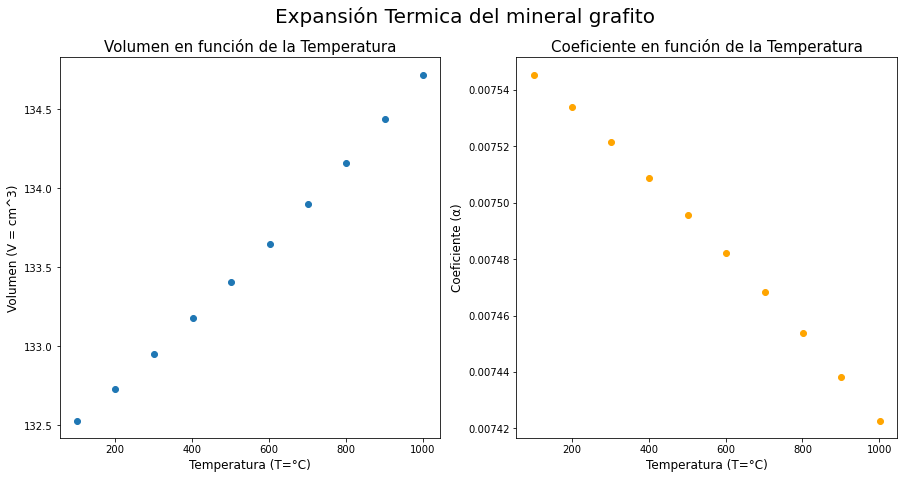
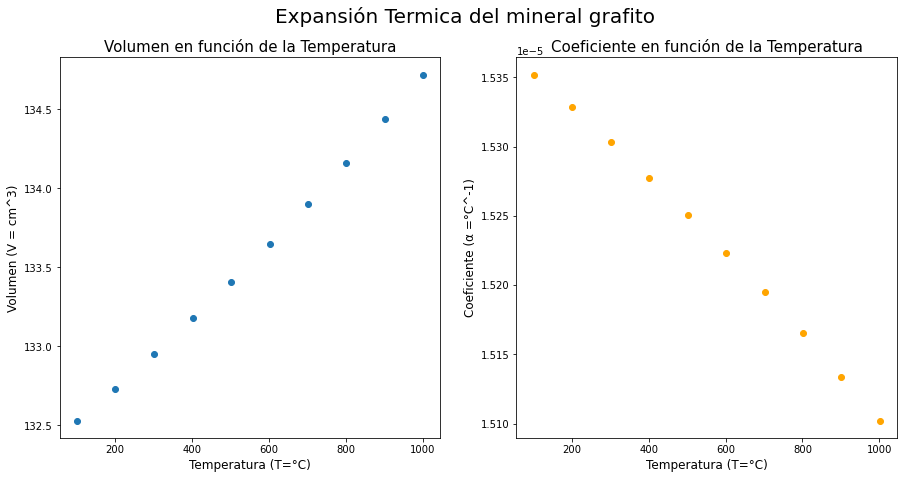
Cambios y mejoras menores

diff --git a/Complementaria/Taller_1/expansiontermicamineral.py b/Complementaria/Taller_1/expansiontermicamineral.py
@@ -40,11 +40,14 @@ class ExpansionTermicaMineral(Mineral):
         temp_np = np.asarray(self.temperatura)
         volumen_np = np.asarray(self.volumen)
         
+        m = (volumen_np[1] - volumen_np[0]) / (temp_np[1] - temp_np[0])
+        
         h = temp_np[1] - temp_np[0]
-        d = ((volumen_np + h) - (volumen_np - h)) / (2*h)
+        d = ((m*(temp_np + h) - m*temp_np[0] + volumen_np[0]) - (m*(temp_np - h) - m*temp_np[0] + volumen_np[0])) / (2*h)
         
         coeficiente = (1/volumen_np)*d
-        error = np.abs(volumen_np - d)
+        d_exacta = np.gradient(m*temp_np - m*temp_np[0] + volumen_np[0])
+        error = np.abs(d - d_exacta)
         
         tupla_coeficiente_y_error = (coeficiente,error)
         
@@ -59,7 +62,7 @@ class ExpansionTermicaMineral(Mineral):
         ax_coeficiente = fig.add_subplot(122)
         ax_coeficiente.scatter(self.temperatura,coeficiente, color = 'orange')
         ax_coeficiente.set_xlabel('Temperatura (T=°C)', fontsize = 12)
-        ax_coeficiente.set_ylabel('Coeficiente (α)', fontsize = 12)
+        ax_coeficiente.set_ylabel('Coeficiente (α =°C^-1)', fontsize = 12)
         ax_coeficiente.set_title('Coeficiente en función de la Temperatura', fontsize = 15)
         
         return tupla_coeficiente_y_error

diff --git a/Complementaria/Taller_1/indices_refraccion.py b/Complementaria/Taller_1/indices_refraccion.py
@@ -372,15 +372,17 @@ def graficar_todos_los_indices_de_refracción_y_guardarlos(dic:dict):
             plt.savefig(ruta3 + '\\' + nombre +'.png', bbox_inches='tight')
             plt.clf()
 
-'''archivo = buscar_archivo()
+'''
+archivo = buscar_archivo()
 info = crear_list_tupla_onda_y_n(buscar_enlace(archivo))
 promedio = n_promedio(info)
 des_est = n_desviación_estandar(info, promedio)
-dic = crear_enlace_material_dict()'''
+dic = crear_enlace_material_dict()
 
-#graficar_todos_los_indices_de_refracción_y_guardarlos(dic)
+graficar_todos_los_indices_de_refracción_y_guardarlos(dic)
 
-#graficar_índice_de_refracción(archivo,info,promedio,des_est,dic)
-#crear_enlace_material_dic('indices_refraccion.csv')
-#crear_list_tupla_onda_y_n(buscar_enlace(buscar_archivo()))
-#crear_enlace_material_dict()
+graficar_índice_de_refracción(archivo,info,promedio,des_est,dic)
+crear_enlace_material_dic('indices_refraccion.csv')
+crear_list_tupla_onda_y_n(buscar_enlace(buscar_archivo()))
+crear_enlace_material_dict()
+'''

diff --git a/Complementaria/Taller_1/mineral.py b/Complementaria/Taller_1/mineral.py
@@ -9,7 +9,7 @@ import matplotlib.pyplot as plt
 
 class Mineral:
     
-    #Punto 1.1
+    #Punto 2.1
 
     def __init__(self,nombre:str,dureza:float,lustre:str,rompimiento_por_fractura:bool,color:str,
                  composición:str,sistema_cristalino:str,specific_gravity:float):
@@ -23,7 +23,7 @@ class Mineral:
         self.sistema_cristalino = sistema_cristalino
         self.gravedad_especifica = specific_gravity
         
-    #Punto 1.2
+    #Punto 2.2
             
     def clasificacion_silicato(self):
         
@@ -111,4 +111,5 @@ print(Noco.clasificacion_silicato(),',',Noco.densidad_SI(),'\n')
 
 Noco.imprimir_dureza_rompimiento_sistema()
 
-Noco.visualizacion_color_material()'''
+Noco.visualizacion_color_material()
+'''

diff --git a/Complementaria/Taller_1/expansiontermica_olivina_grafito.py b/Complementaria/Taller_1/expansiontermica_olivina_grafito.py
@@ -66,4 +66,4 @@ def graficas_y_coeficientes(tupla:tuple):
     
     return tupla_gra_oli
     
-print(graficas_y_coeficientes(olivino_y_grafito(lm.lista_minerales('minerales.txt'))))
+#print(graficas_y_coeficientes(olivino_y_grafito(lm.lista_minerales('minerales.txt'))))
